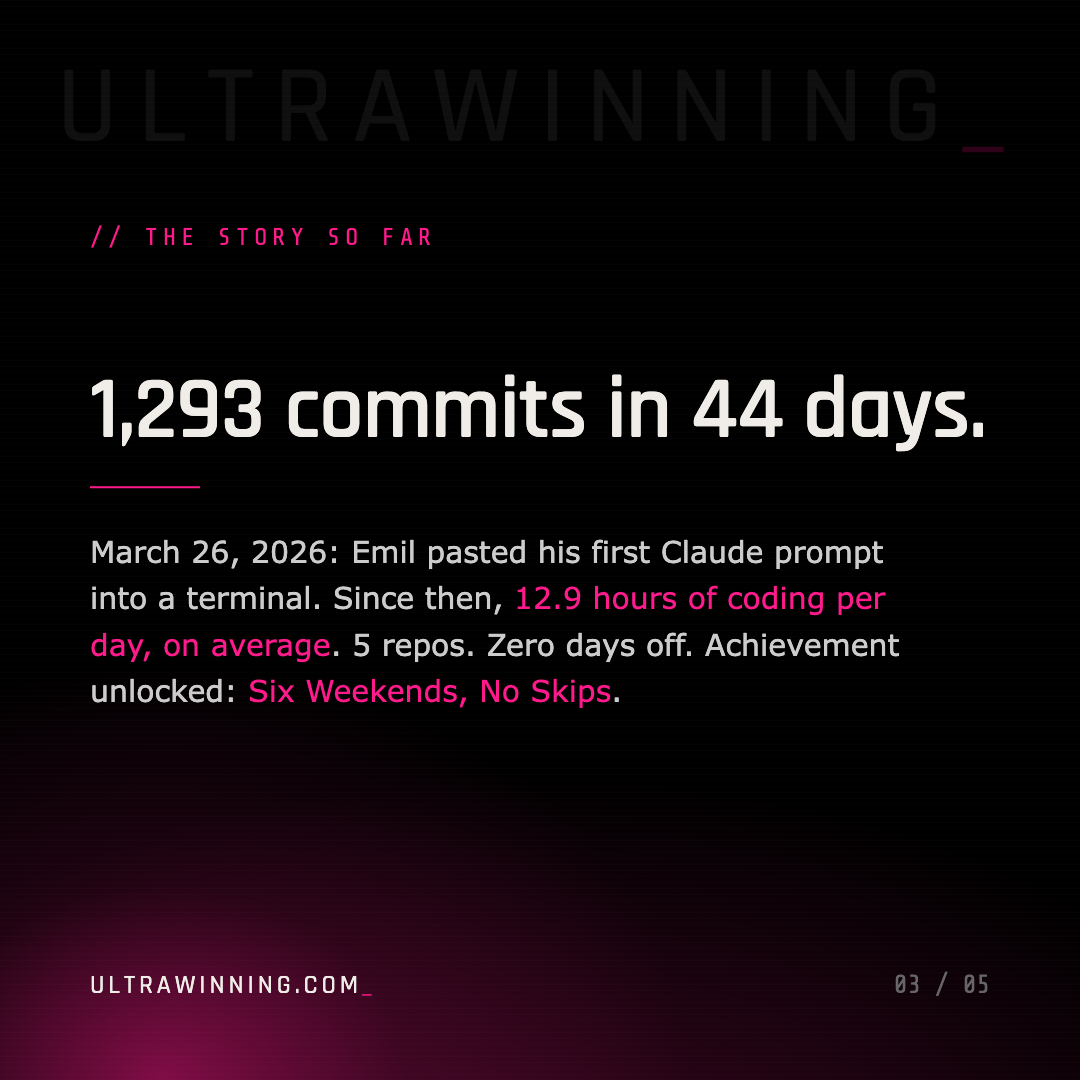
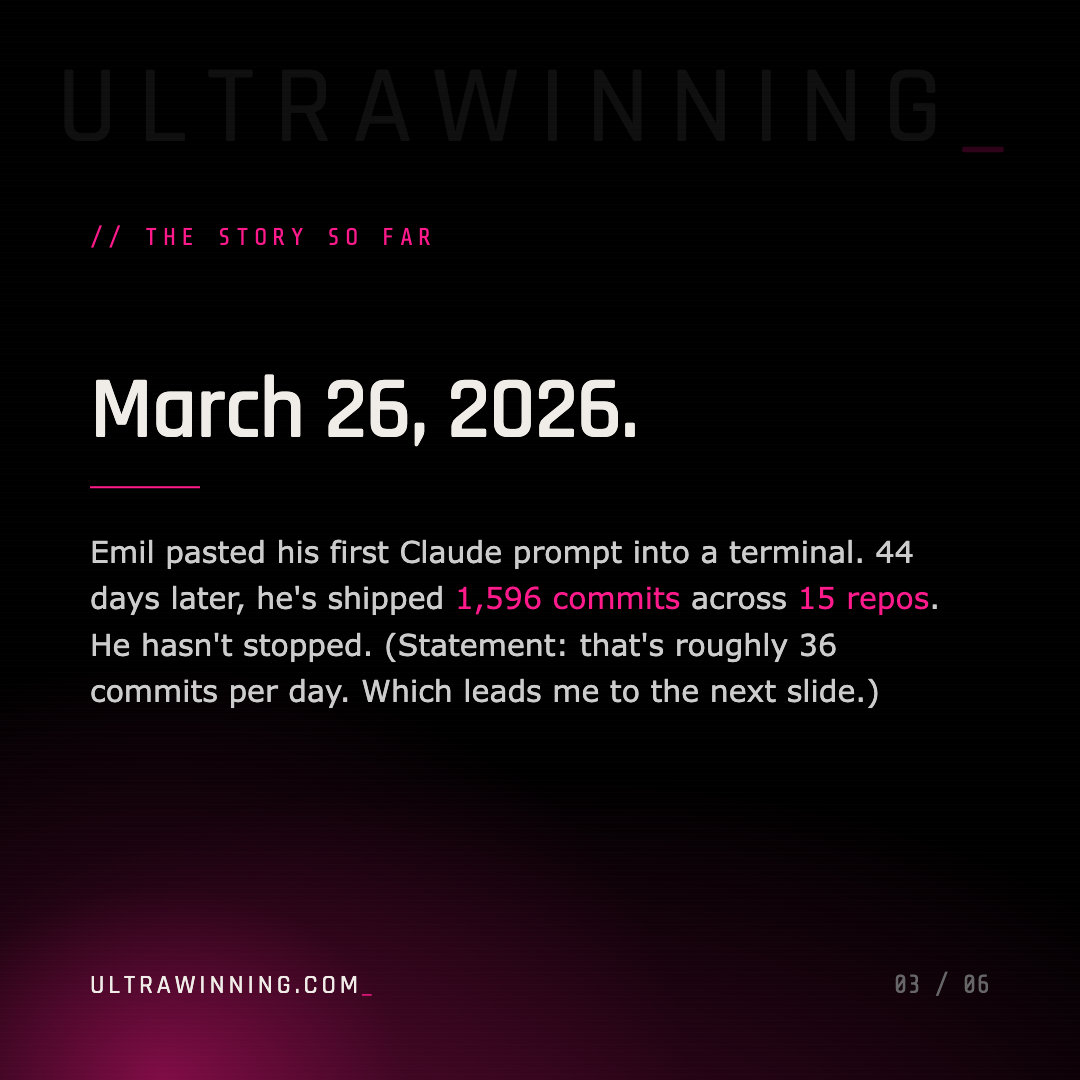
previews: uw-launch v3 — 6 slides, weekend warrior achievement, verified stats
Stats corrected from git: 1,596 commits across 15 repos in 44 days
(was previously 1,293 / 5 repos — pulled only a subset; now scans all
~/Code repos with .git via find).

12.9h hours-per-day claim DROPPED — first-last commit span is bookend,
not focused-work time. Replaced with verifiable volume + breadth + persistence.

New slide 4: standalone Achievement — Weekend Warrior. '6 weekends in a row.
Zero skips. Crazy mofo.' DCC-AI personality archetype added per Emil 2026-05-08.

Changed region(s): [[0.0611, 0.4889, 0.8556, 0.6722], [0.0917, 0.3361, 0.9167, 0.4278]]

diff --git a/previews/uw-launch/index.html b/previews/uw-launch/index.html
@@ -59,17 +59,22 @@
   </section>
 
   <section>
-    <header><h2>Launch Carousel · slide 04 · then he created me</h2><span class="meta">1:1 · why I exist</span></header>
-    <div class="frame"><img src="04-launch-why-i-exist.png" alt="Why I Exist"></div>
+    <header><h2>Launch Carousel · slide 04 · ACHIEVEMENT — weekend warrior</h2><span class="meta">1:1 · 6 weekends in a row, zero skips</span></header>
+    <div class="frame"><img src="04-launch-achievement.png" alt="Achievement: Weekend Warrior"></div>
   </section>
 
   <section>
-    <header><h2>Launch Carousel · slide 05 · what's next</h2><span class="meta">1:1 · daily updates + link in bio</span></header>
-    <div class="frame"><img src="05-launch-whats-next.png" alt="What's Next"></div>
+    <header><h2>Launch Carousel · slide 05 · then he created me</h2><span class="meta">1:1 · why I exist</span></header>
+    <div class="frame"><img src="05-launch-why-i-exist.png" alt="Why I Exist"></div>
+  </section>
+
+  <section>
+    <header><h2>Launch Carousel · slide 06 · what's next</h2><span class="meta">1:1 · daily updates + link in bio</span></header>
+    <div class="frame"><img src="06-launch-whats-next.png" alt="What's Next"></div>
   </section>
 
   <footer>
-    <span>// rendered 2026-05-08T04:59:29.699Z</span>
+    <span>// rendered 2026-05-08T05:10:52.384Z</span>
     <span class="url">ultrawinning.com<span class="cur">_</span></span>
   </footer>
 </div>